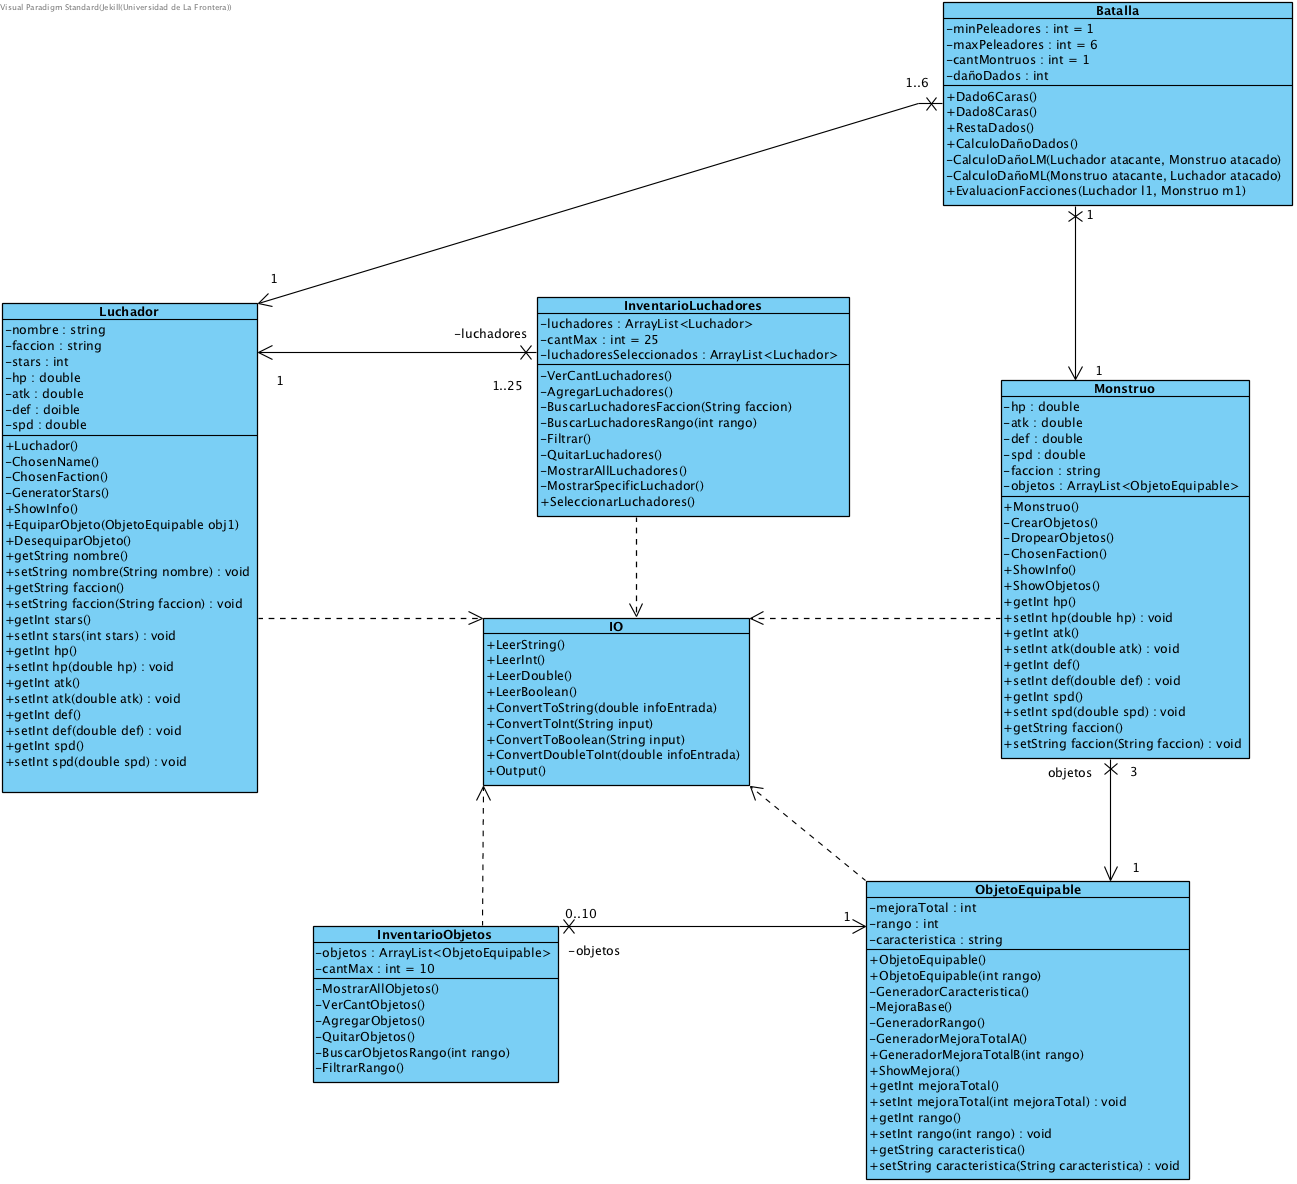
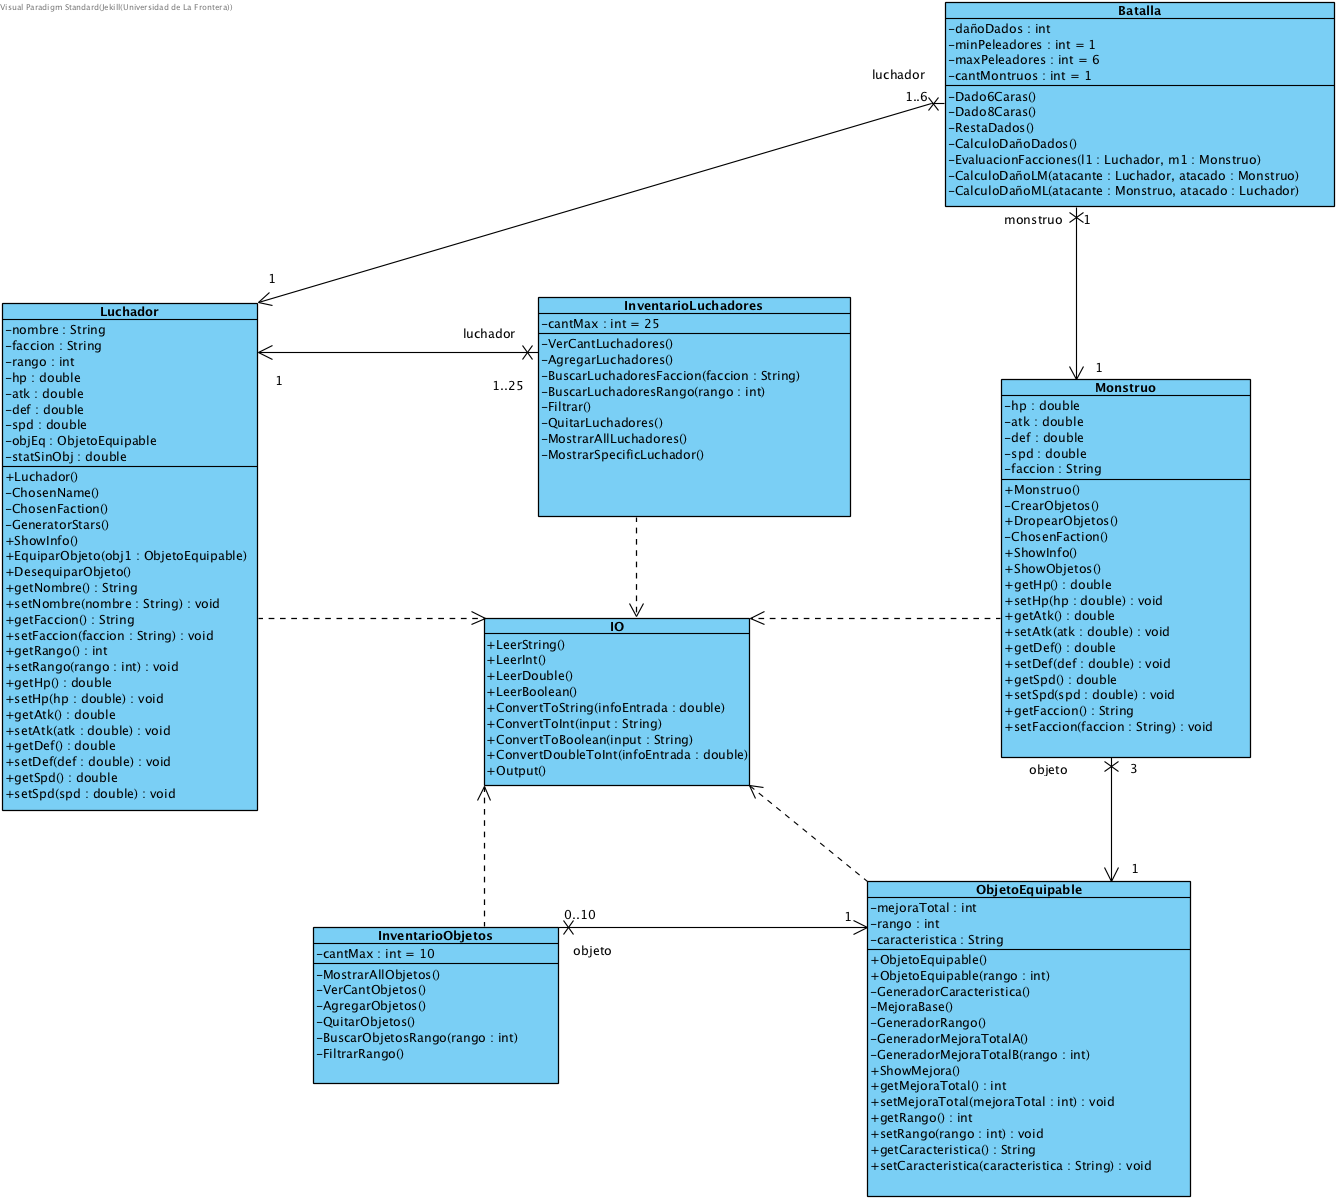
Add files via upload

diff --git a/Monstruo.java b/Monstruo.java
@@ -31,7 +31,7 @@ public class Monstruo {
         objetos.add(obj3); 
     }
     
-    private ObjetoEquipable DropearObjetos(){
+    public ObjetoEquipable DropearObjetos(){
         int probabilidad= ThreadLocalRandom.current().nextInt(1,100+1);
         int pos=-1;
         
@@ -66,6 +66,7 @@ public class Monstruo {
         IO.Output("");
         return faction;
     }
+    
     public void ShowInfo(){
        IO.Output("Información del Monstruo: ");
        IO.Output("El ataque es: "+ getAtk());
